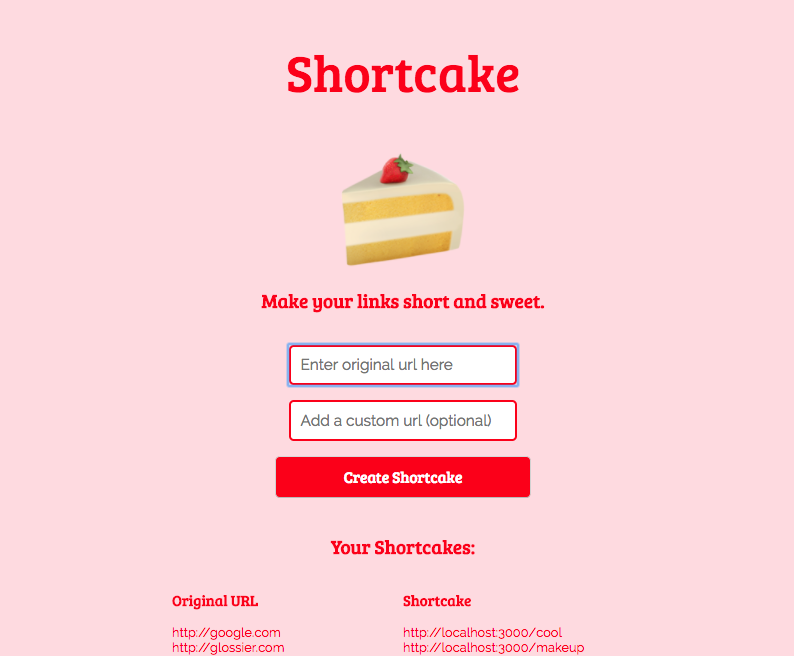
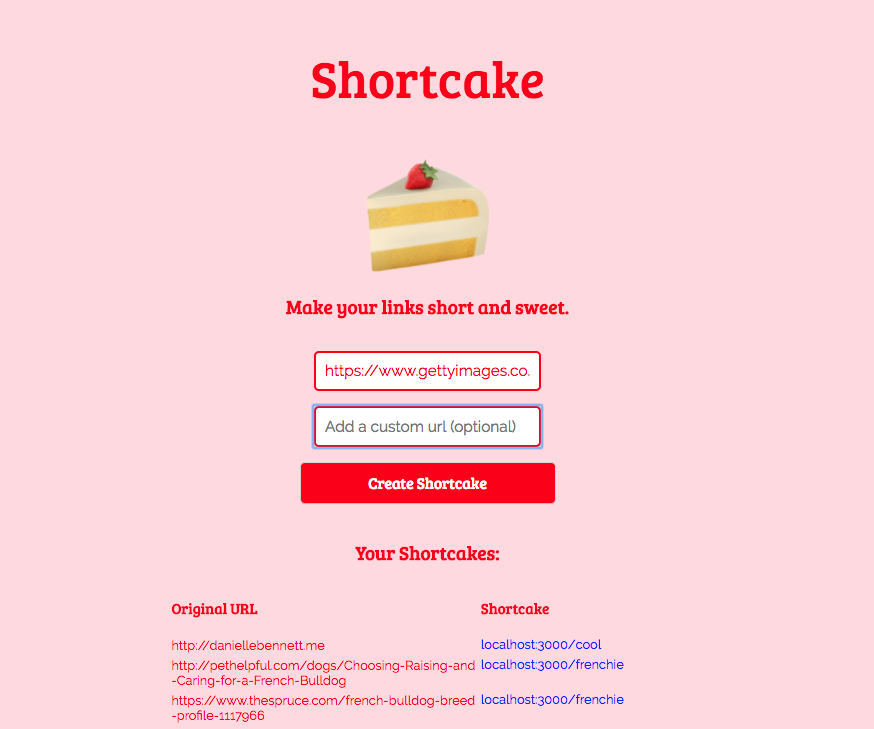
reset custom url

Changed region(s): [[0.3325, 0.2134, 0.6952, 0.7927], [0.1814, 0.8232, 0.7557, 1.0], [0.3325, 0.061, 0.665, 0.1524]]

diff --git a/routes/index.js b/routes/index.js
@@ -3,7 +3,7 @@ var bodyParser = require('body-parser');
 var router = express.Router();
 
 var urls = [
-  { "id": 1, "original_url": 'http://google.com', "short_url": 'cool' }
+  { "id": 1, "original_url": 'http://daniellebennett.me', "short_url": 'cool' }
 ];
 var initialUrlId = 2;
 

diff --git a/client/src/components/linkcard.js b/client/src/components/linkcard.js
@@ -1,8 +1,6 @@
 import React from 'react'
 import { Link } from 'react-router-dom'
-         //
-         // <div className="grid"><a href={this.props.original}>{baseUrl}{this.props.short}</a></div>
-         //
+
  class LinkCard extends React.Component {
 
    render() {

diff --git a/client/src/App.js b/client/src/App.js
@@ -75,6 +75,9 @@ class App extends Component {
 
     alert(`Your new link is 'http://localhost:3000/${pathname}'`)
 
+    this.setState({
+      customLink: ""
+    })
     e.target.reset();
   }
 

diff --git a/client/src/components/form.js b/client/src/components/form.js
@@ -4,7 +4,6 @@ import React, { Component } from 'react'
    constructor(props) {
    		super(props);
    		this.state = {
-
    	 }
    }
 
